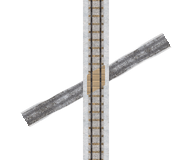
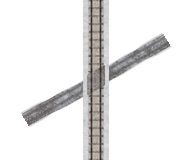
fix(terrain): winter crossings show snowed-over planks
The winter level crossings kept a saturated orange plank square in the
grey snow track (infill ΔE about 23.5 from the winter surface, C* 20),
which read as a summer patch. The infill of a crossing over a winter
track now blends 0.85 toward the snow-packed material of the way that
crosses it, then 0.15 toward the rut slush, so the boards show only as
texture: ΔE 6.2-6.3 from the winter path surface on cross1_w/cross4_w,
3.8 from road36_w on cross2_w/cross3_w, C* <= 3.8, rails still dark
along >= 99.4 %. TestWinterPathsAndRailsMeetCriterion now checks the
infill (ΔE <= 10, C* <= 8).

Claude-Session: https://claude.ai/code/session_01GYYpxSaZdbX1BuoopUdKHR

Changed region(s): [[0.4375, 0.4062, 0.5625, 0.5938]]

diff --git a/tools/art-review/winter_track_test.go b/tools/art-review/winter_track_test.go
@@ -420,12 +420,40 @@ func railSleeperPeriod(im *image.NRGBA, v connectionVariant) (int, float64) {
 	return lag, corr(int(connectionSleeperPitch * 4))
 }
 
+// winterCrossingInfill collects the plank infill of a crossing: where the
+// way (a path or road ID such as "path14_w") and the track overlap, away from
+// the hex edge, the rounded corners and the steel.
+func winterCrossingInfill(im *image.NRGBA, rail connectionFamily, track connectionVariant, way string) winterLabMean {
+	g := sharedConnectionGeometry()
+	f := connectionFamily{ID: "path", Width: 7, Border: .75}
+	if strings.HasPrefix(way, "road") {
+		f = connectionFamily{ID: "road", Width: 22, Border: 2, Markings: "ruts"}
+	}
+	var ports []int
+	for _, r := range strings.TrimSuffix(strings.TrimLeft(way, "pathrod"), "_w") {
+		ports = append(ports, int(r-'0'))
+	}
+	route := connectionRoutes(g, f, connectionVariant{ID: way, Ports: ports})
+	r := connectionRailRoutes(g, rail, track)
+	var m winterLabMean
+	for y := range 320 {
+		for x := range 384 {
+			p := connectionPoint{(float64(x) + .5) / 4, (float64(y) + .5) / 4}
+			if mixedEdgeDistance(g, p) > 12.5 && connectionRouteDistance(route, p) < f.Width/2+.5 && connectionRouteDistance(r.ballast, p) < 4 && connectionRouteDistance(r.rails, p) > connectionRailWidth/2+.5 {
+				m.add(winterLab(im.NRGBAAt(x, y)))
+			}
+		}
+	}
+	return m
+}
+
 // Criterion for the winter paths, rails, crossings and footbridges (PLAN.md
 // L7.4) on the installed 4x tiles over the winter ground.
 func TestWinterPathsAndRailsMeetCriterion(t *testing.T) {
 	s := newWinterTrackScene(t)
 	road := winterRoadSurface(t, s.root)
 	t.Logf("road36_w surface L*a*b* %.1f %.1f %.1f", road[0], road[1], road[2])
+	var paths winterLabMean // the surface of every winter path
 	for _, id := range slices.Sorted(func(yield func(string) bool) {
 		for id := range s.variants {
 			if !yield(id) {
@@ -446,6 +474,10 @@ func TestWinterPathsAndRailsMeetCriterion(t *testing.T) {
 		}
 		switch f.ID {
 		case "path":
+			for i := range paths.sum {
+				paths.sum[i] += surface.sum[i]
+			}
+			paths.n += surface.n
 			ds := winterDeltaE(surface.mean(), road)
 			line += fmt.Sprintf("  surface L*a*b* %.1f %.1f %.1f ΔE %.1f", surface.mean()[0], surface.mean()[1], surface.mean()[2], ds)
 			if ds > 8 {
@@ -467,8 +499,11 @@ func TestWinterPathsAndRailsMeetCriterion(t *testing.T) {
 		}
 		t.Log(line)
 	}
+	path := paths.mean()
+	t.Logf("winter path surface L*a*b* %.1f %.1f %.1f", path[0], path[1], path[2])
 	// Crossings and footbridges: their rails stay dark and no summer green
-	// shows anywhere on the tile.
+	// shows anywhere on the tile. A crossing's plank infill reads as snowed
+	// over: within ΔE 10 of the winter surface crossing the track, chroma <= 8.
 	for _, v := range mixedRoster() {
 		if v.Kind == "road-bridge" {
 			continue
@@ -495,10 +530,22 @@ func TestWinterPathsAndRailsMeetCriterion(t *testing.T) {
 		}
 		if v.Kind == "crossing" {
 			rail := v.Layers[1] + "_w"
-			dark := railCentrelineDark(s.composite(t, family, v.RuntimeID+"_w"), s.families[rail], s.variants[rail])
+			im := s.composite(t, family, v.RuntimeID+"_w")
+			dark := railCentrelineDark(im, s.families[rail], s.variants[rail])
 			line += fmt.Sprintf("  rails dark %.1f%%", 100*dark)
 			if dark < .9 {
 				t.Errorf("%s_w: rail centre lines L* <= 40 along %.1f%%", v.RuntimeID, 100*dark)
+			}
+			infill := winterCrossingInfill(im, s.families[rail], s.variants[rail], v.Layers[0]+"_w")
+			target, surface := path, "winter path"
+			if strings.HasPrefix(v.Layers[0], "road") {
+				target, surface = road, "road36_w"
+			}
+			m := infill.mean()
+			de, chroma := winterDeltaE(m, target), math.Hypot(m[1], m[2])
+			line += fmt.Sprintf("  infill L*a*b* %.1f %.1f %.1f ΔE %.1f from the %s surface, C* %.1f", m[0], m[1], m[2], de, surface, chroma)
+			if infill.n < 100 || de > 10 || chroma > 8 {
+				t.Errorf("%s_w: plank infill (%d px) ΔE %.1f from the %s surface (want <= 10), C* %.1f (want <= 8)", v.RuntimeID, infill.n, de, surface, chroma)
 			}
 		}
 		t.Log(line)

diff --git a/tools/art-review/mixed_winter.go b/tools/art-review/mixed_winter.go
@@ -10,16 +10,22 @@ import (
 	"strings"
 )
 
+// mixedWinterInfillSnow blends the timber infill of a crossing over a winter
+// track toward the snow-packed surface of the road or path crossing it, so
+// the boards read as snowed over and show only faintly; mixedWinterInfillSlush
+// then darkens it toward the slush of the ruts, as traffic treads the snow on
+// the boards as on the way itself.
+const (
+	mixedWinterInfillSnow  = .85
+	mixedWinterInfillSlush = .15
+)
+
 // A winter mixed manifest derives the winter footbridges and level crossings
 // from the pinned summer mixed manifest: each listed variant keeps its
 // geometry, timber infill and steel, and every component it is built from
 // (the crossing's layers, the footbridge's approach path) is swapped for the
 // component of the same ID with a "_w" suffix from the pinned winter
 // connected manifests. Exports carry the runtime ID with "_w".
-// mixedWinterInfillSnow blends the timber infill of a crossing over a winter
-// track toward the winter ground.
-const mixedWinterInfillSnow = .3
-
 type winterMixedManifest struct {
 	SchemaVersion int                  `json:"schema_version"`
 	Base          connectionMaterial   `json:"base"`

diff --git a/tools/art-review/mixed_render.go b/tools/art-review/mixed_render.go
@@ -132,8 +132,11 @@ func renderMixedRaw(in mixedInputs, v mixedVariant) *image.NRGBA {
 					board := q[0]*tangent[0] + q[1]*tangent[1]
 					infill := mixedWood(in.merged.materials["timber"], p, board)
 					if track.family.Verge == "snow" {
-						// Winter crossings: snow trodden into the planks.
-						infill = connectionBlend(infill, sampleGrassMaterial(track.input.materials["grass"], p), mixedWinterInfillSnow)
+						// Winter crossings: the planks lie under the same
+						// packed snow as the way crossing the track.
+						way := in.components[v.Layers[0]]
+						infill = connectionBlend(infill, sampleConnectionMaterial(way.input.materials[way.family.Material], p), mixedWinterInfillSnow)
+						infill = connectionBlend(infill, connectionRutColor, mixedWinterInfillSlush)
 					}
 					// Rounded approach/track intersection produces fitted flush
 					// boards without bridge curbs, posts, or raised shadows.

diff --git a/art/terrain/cross/prompt.md b/art/terrain/cross/prompt.md
@@ -34,8 +34,9 @@ path and rail tiles exactly.
 Derived only: `art-review -mixed art/pipeline/connected-mixed-v1.json` layers the path or road variant over
 the rail variant. `connected-mixed-winter-v1.json` derives the winter crossings from
 `connected-mixed-v2.json`, swapping every layer for its `_w` form from `connected-road-winter-v1.json`,
-`connected-paths-winter-v1.json` and `connected-rail-winter-v1.json`; the plank infill blends 0.3 toward the
-winter ground. The tagged generator `TestGenerateWinterPathsAndRails` owns all winter crossings
+`connected-paths-winter-v1.json` and `connected-rail-winter-v1.json`; the plank infill blends 0.85 toward the winter surface of the
+crossing way, then 0.15 toward the rut slush, so the boards read as snowed over (infill within ΔE 3.8–6.3
+of that surface, C\* ≤ 3.8, in `TestWinterPathsAndRailsMeetCriterion`). The tagged generator `TestGenerateWinterPathsAndRails` owns all winter crossings
 (`TestGenerateWinterRoads` only the winter roads): rerun it after changing a winter road, path or rail. Exports are fixed Lanczos3 at 2x (192x160) and 4x (384x320) with complementary half-open hex ownership; promote into `assets/terrain/<family>/` and re-index.
 
 ## Avoid
